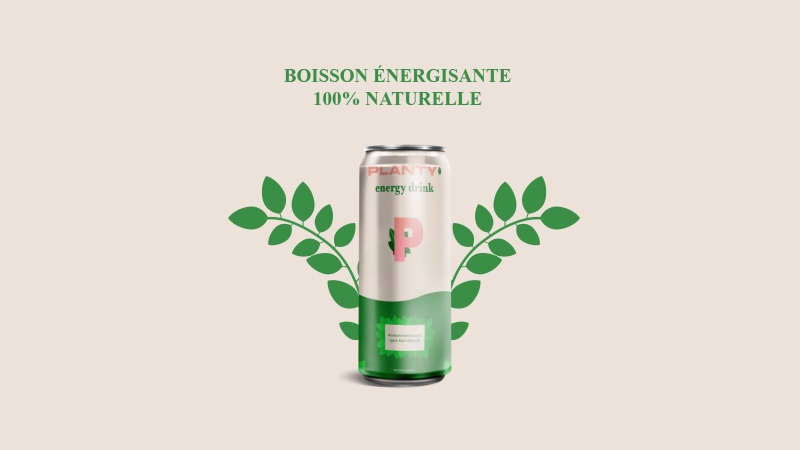
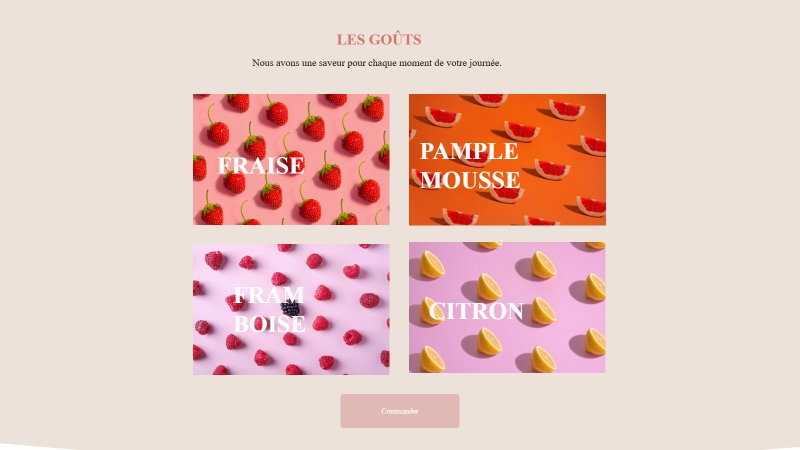
init 2

diff --git a/wp-content/uploads/elementor/css/post-17.css b/wp-content/uploads/elementor/css/post-17.css
@@ -1,1 +1,1 @@
-.elementor-17 .elementor-element.elementor-element-f60649a:not(.elementor-motion-effects-element-type-background), .elementor-17 .elementor-element.elementor-element-f60649a > .elementor-motion-effects-container > .elementor-motion-effects-layer{background-color:#ECE2DA;}.elementor-17 .elementor-element.elementor-element-f60649a{transition:background 0.3s, border 0.3s, border-radius 0.3s, box-shadow 0.3s;}.elementor-17 .elementor-element.elementor-element-f60649a > .elementor-background-overlay{transition:background 0.3s, border-radius 0.3s, opacity 0.3s;}.elementor-17 .elementor-element.elementor-element-8969d76 > .elementor-element-populated{transition:background 0.3s, border 0.3s, border-radius 0.3s, box-shadow 0.3s;}.elementor-17 .elementor-element.elementor-element-8969d76 > .elementor-element-populated > .elementor-background-overlay{transition:background 0.3s, border-radius 0.3s, opacity 0.3s;}.elementor-17 .elementor-element.elementor-element-8be0b46{transition:background 0.3s, border 0.3s, border-radius 0.3s, box-shadow 0.3s;}.elementor-17 .elementor-element.elementor-element-8be0b46 > .elementor-background-overlay{transition:background 0.3s, border-radius 0.3s, opacity 0.3s;}.elementor-17 .elementor-element.elementor-element-8be0b46 > .elementor-shape-top .elementor-shape-fill{fill:#FFFFFF;}.elementor-17 .elementor-element.elementor-element-8be0b46 > .elementor-shape-top svg{width:calc(100% + 1.3px);height:56px;}.elementor-17 .elementor-element.elementor-element-62bd740{text-align:center;}.elementor-17 .elementor-element.elementor-element-62bd740 .elementor-heading-title{color:#3B8E46;font-family:"Syne", Sans-serif;font-size:30px;font-weight:700;}.elementor-17 .elementor-element.elementor-element-3872294{text-align:center;color:#000000;font-family:"Syne", Sans-serif;font-size:20px;font-weight:400;}
+.elementor-17 .elementor-element.elementor-element-f60649a{transition:background 0.3s, border 0.3s, border-radius 0.3s, box-shadow 0.3s;}.elementor-17 .elementor-element.elementor-element-f60649a > .elementor-background-overlay{transition:background 0.3s, border-radius 0.3s, opacity 0.3s;}.elementor-17 .elementor-element.elementor-element-8969d76 > .elementor-element-populated{transition:background 0.3s, border 0.3s, border-radius 0.3s, box-shadow 0.3s;}.elementor-17 .elementor-element.elementor-element-8969d76 > .elementor-element-populated > .elementor-background-overlay{transition:background 0.3s, border-radius 0.3s, opacity 0.3s;}.elementor-17 .elementor-element.elementor-element-8be0b46{transition:background 0.3s, border 0.3s, border-radius 0.3s, box-shadow 0.3s;margin-top:50px;margin-bottom:50px;}.elementor-17 .elementor-element.elementor-element-8be0b46 > .elementor-background-overlay{transition:background 0.3s, border-radius 0.3s, opacity 0.3s;}.elementor-17 .elementor-element.elementor-element-8be0b46 > .elementor-shape-top .elementor-shape-fill{fill:#FFFFFF;}.elementor-17 .elementor-element.elementor-element-8be0b46 > .elementor-shape-top svg{width:calc(100% + 1.3px);height:56px;}.elementor-17 .elementor-element.elementor-element-62bd740{text-align:center;}.elementor-17 .elementor-element.elementor-element-62bd740 .elementor-heading-title{color:#3B8E46;font-family:"Syne", Sans-serif;font-size:30px;font-weight:700;}.elementor-17 .elementor-element.elementor-element-3872294{text-align:center;color:#000000;font-family:"Syne", Sans-serif;font-size:20px;font-weight:400;}

diff --git a/wp-content/uploads/depicter/css/1.css b/wp-content/uploads/depicter/css/1.css
@@ -3,27 +3,70 @@
 	padding-left:15px;
 	padding-right:15px;
 }
-.depicter-revert .depicter-1-element-51{
-	font-size:38px;
+.depicter-revert .depicter-1-element-66{
+	font-size:15px;
 	text-align:center;
-	color:#3B8E46;
+	color:#FFFFFF;
+	font-family:"Syne";
+	font-weight:400;
+	background-color:#E0B9B4;
+	border-radius:6px;
+}
+.depicter-revert .depicter-1-element-64{
+	font-size:48px;
+	color:#FFFFFF;
+	font-family:"Syne";
+	font-weight:800;
+	line-height:120%;
+	background-color:transparent;
+}
+.depicter-revert .depicter-1-element-63{
+	font-size:48px;
+	color:#FFFFFF;
+	font-family:"Syne";
+	font-weight:800;
+	line-height:120%;
+	background-color:transparent;
+}
+.depicter-revert .depicter-1-element-62{
+	font-size:48px;
+	color:#FFFFFF;
+	font-family:"Syne";
+	font-weight:800;
+	line-height:120%;
+	background-color:transparent;
+}
+.depicter-revert .depicter-1-element-61{
+	font-size:48px;
+	color:#FFFFFF;
+	font-family:"Syne";
+	font-weight:800;
+	line-height:120%;
+	background-color:transparent;
+}
+.depicter-revert .depicter-1-element-60{
+	font-size:20px;
+	color:#000000;
+	font-family:"Syne";
+	font-weight:400;
+	line-height:120%;
+	background-color:transparent;
+}
+.depicter-revert .depicter-1-element-51{
+	font-size:30px;
+	text-align:center;
+	color:#D2776A;
 	font-family:"Syne";
 	font-weight:800;
 	line-height:120%;
 	text-decoration:;
 	background-color:transparent;
 }
-.depicter-revert .depicter-1-element-43{
-	opacity:0.98;
-}
-.depicter-revert .depicter-1-element-43:not(.depicter-hover-off):hover {
-	filter:brightness(100%) contrast(100%) saturate(100%) blur(0px) hue-rotate(0deg);
-	opacity:0.98;
-}
-.depicter-revert .depicter-1-element-48{
-	opacity:1;
+.depicter-revert .depicter-1-element-55{
+	background-color:#ECE2DA;
+	border-radius:50%;
 }
 .depicter-revert .depicter-1-section-1 .depicter-section-background{
-	background-color:#ECE2DA;
+	background-color:#FFFFFF;
 }
 

diff --git a/wp-content/uploads/depicter/css/13.css b/wp-content/uploads/depicter/css/13.css
@@ -1,0 +1,36 @@
+
+.depicter-revert.depicter-13 .depicter-layers-wrapper{
+	padding-left:15px;
+	padding-right:15px;
+}
+.depicter-revert .depicter-13-element-51{
+	font-size:38px;
+	text-align:center;
+	color:#3B8E46;
+	font-family:"Syne";
+	font-weight:800;
+	line-height:120%;
+	text-decoration:;
+	background-color:transparent;
+}
+.depicter-revert .depicter-13-element-43{
+	opacity:0.98;
+	transform:scaleX(1) scaleY(1);
+	border-radius:63px;
+}
+.depicter-revert .depicter-13-element-43:not(.depicter-hover-off):hover {
+	filter:brightness(100%) contrast(100%) saturate(100%) blur(0px) hue-rotate(0deg);
+	opacity:0.98;
+}
+.depicter-revert .depicter-13-element-48{
+	opacity:1;
+}
+.depicter-revert .depicter-13-element-55{
+	box-shadow:inset -18px -12px 0px 0px rgba(208, 193, 193, 0.5);
+	background-color:#ECE2DA;
+	border-radius:50%;
+}
+.depicter-revert .depicter-13-section-1 .depicter-section-background{
+	background-color:#FFFFFF;
+}
+
